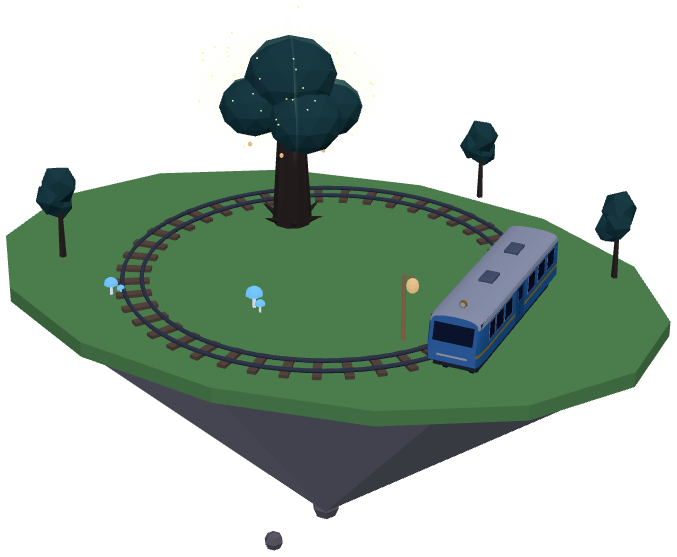
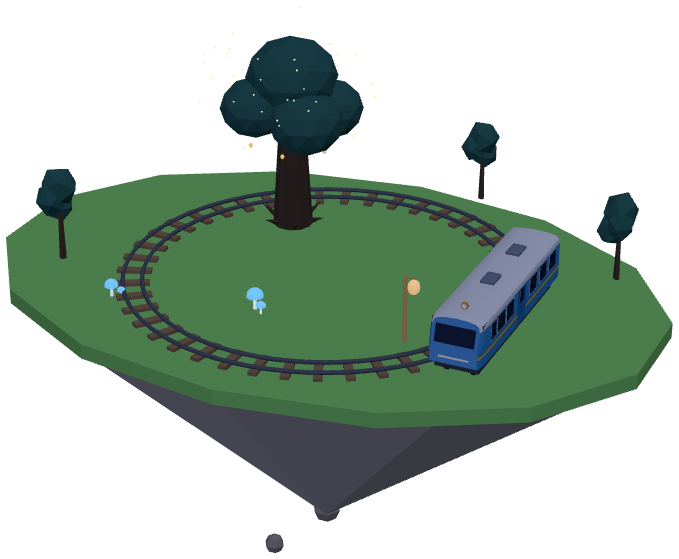
5-1: great tree glow as a camera-facing ball; Sakasa in view in the ending; cleared checked after the map
The halo planes showed edge-on as a thin line above the tree. In the ending Sakasa stood behind the train; it now
stands on the deck past it (a fourth deck to the end of the line). The map picture leaves the additive glow out.

Claude-Session: https://claude.ai/code/session_01DufJAw4fQ6tTfsoi3dumzG

diff --git a/src/view/three/night-placeholders.ts b/src/view/three/night-placeholders.ts
@@ -2,13 +2,11 @@ import {
   AdditiveBlending,
   BoxGeometry,
   BufferGeometry,
-  CanvasTexture,
   CircleGeometry,
   Color,
   ConeGeometry,
   CylinderGeometry,
   Float32BufferAttribute,
-  DoubleSide,
   Group,
   IcosahedronGeometry,
   Mesh,
@@ -437,26 +435,33 @@ function moonMeadow(): Group {
 }
 
 let treeHalo: MeshBasicMaterial | null = null;
-/** The soft firefly light round the great tree's crown: seen from far off, through the fog. */
+/**
+ * The soft firefly light round the great tree's crown, seen from far off through the fog: a ball drawn brightest where
+ * it faces the camera and fading to nothing at its rim (so it has no edge from any side, and works instanced).
+ */
 function haloMaterial(): MeshBasicMaterial {
   if (treeHalo) return treeHalo;
-  let map: CanvasTexture | null = null;
-  if (typeof document !== 'undefined') {
-    const c = document.createElement('canvas');
-    c.width = c.height = 64;
-    const g = c.getContext('2d');
-    if (g) {
-      const grad = g.createRadialGradient(32, 32, 0, 32, 32, 32);
-      grad.addColorStop(0, 'rgba(216,255,122,0.9)');
-      grad.addColorStop(0.5, 'rgba(216,255,122,0.25)');
-      grad.addColorStop(1, 'rgba(216,255,122,0)');
-      g.fillStyle = grad;
-      g.fillRect(0, 0, 64, 64);
-      map = new CanvasTexture(c);
-    }
-  }
-  treeHalo = new MeshBasicMaterial({ color: '#ffffff', map, transparent: true, blending: AdditiveBlending, depthWrite: false, fog: false, side: DoubleSide, opacity: 0.55 });
-  return treeHalo;
+  const m = new MeshBasicMaterial({ color: FIREFLY, transparent: true, blending: AdditiveBlending, depthWrite: false, fog: false });
+  m.onBeforeCompile = (shader) => {
+    shader.vertexShader = shader.vertexShader
+      .replace('#include <common>', '#include <common>\nvarying vec3 vHaloN;\nvarying vec3 vHaloV;')
+      .replace(
+        '#include <project_vertex>',
+        `#include <project_vertex>
+        vec3 haloN = normal;
+        #ifdef USE_INSTANCING
+          haloN = mat3(instanceMatrix) * haloN;
+        #endif
+        vHaloN = normalize(mat3(modelViewMatrix) * haloN);
+        vHaloV = -mvPosition.xyz;`,
+      );
+    shader.fragmentShader = shader.fragmentShader
+      .replace('#include <common>', '#include <common>\nvarying vec3 vHaloN;\nvarying vec3 vHaloV;')
+      .replace('#include <dithering_fragment>', '#include <dithering_fragment>\ngl_FragColor.rgb *= 0.28 * pow(max(0.0, dot(normalize(vHaloN), normalize(vHaloV))), 2.5);');
+  };
+  m.customProgramCacheKey = () => 'great-tree-halo';
+  treeHalo = m;
+  return m;
 }
 
 /**
@@ -495,12 +500,11 @@ function greatTree(): Group {
   const lampMesh = new Mesh(merge(lamps), glowMaterial());
   lampMesh.name = 'great-tree-lanterns';
   g.add(lampMesh);
-  const halo = new Mesh(new PlaneGeometry(70, 50), haloMaterial());
+  const halo = new Mesh(new IcosahedronGeometry(1, 2), haloMaterial());
   halo.name = 'great-tree-halo';
-  halo.position.set(0, 50, 0);
-  const halo2 = halo.clone();
-  halo2.rotation.y = Math.PI / 2;
-  g.add(halo, halo2);
+  halo.scale.set(34, 24, 34);
+  halo.position.set(0, 48, 0);
+  g.add(halo);
   return g;
 }
 

diff --git a/tests/smoke/stage-5-1-full.spec.ts b/tests/smoke/stage-5-1-full.spec.ts
@@ -310,7 +310,6 @@ test('stage 5-1 full run: the light on and off, the hush, the tanukis, the firef
   await expect(page.locator('#reward-records .reward-record')).toHaveCount(3);
 
   const saved = await progress(page);
-  expect(saved.cleared).toContain('5-1');
   expect(saved.records).toEqual(expect.arrayContaining(['moon-bunnies', 'pond-moonstone']));
   expect(saved.records).not.toContain('lantern-bell');
   const b = await budget(page);
@@ -327,6 +326,7 @@ test('stage 5-1 full run: the light on and off, the hush, the tanukis, the firef
   await expect(map).toBeVisible({ timeout: 30_000 });
   await expect(map).toHaveAttribute('data-page', '3', { timeout: 20_000 });
   await expect(page.locator('.map-island[data-island="5-1"]')).toHaveClass(/is-cleared/, { timeout: 20_000 });
+  expect((await progress(page)).cleared).toContain('5-1');
   await page.waitForTimeout(1200);
   await page.screenshot({ path: resolve(OUT, '5-1-16-map-page3.png') });
 

diff --git a/src/viewer/map-render.ts b/src/viewer/map-render.ts
@@ -58,6 +58,10 @@ async function build(diorama: WorldDiorama | null, models: ModelLibrary): Promis
   if (diorama.rail) root.add(railRing(diorama.rail.radius));
   for (const item of diorama.items) {
     const model = (await models.load(item.model)).clone(true);
+    // A glow meant for the night sky (additive) would print as a dark blot on the picture's transparent background.
+    model.traverse((o) => {
+      if (o.name === 'great-tree-halo') o.visible = false;
+    });
     const scale = item.scale ?? 1;
     const rot = MathUtils.degToRad(item.rotY ?? 0);
     model.scale.setScalar(scale);

diff --git a/docs/PHASE9_CHAPTER5_6.md b/docs/PHASE9_CHAPTER5_6.md
@@ -3466,8 +3466,8 @@ main 2600・右 10・上 9 → はなれ 13.45 m → 光る 所 2520–2586.6、
 - 月は 方位 350°・高さ 18°（表の 20°・32° だと 北へ 向かう 所と 入りの カメラで 画面の 外）。
 - こじかは 線路を よこぎる 向き（`rotationY` −90、0-1 と 同じ）。
 - 寸劇 `lantern` は 運転席の 上の 動かない カメラから（chase では 小さくて 見えなかった）。サカサは main 2025・左 11 m → 2060・左 27 m（表の 2040・16 → 2090・30 より 近く）。
-- 寸劇 `ending` の ほたるの むれは main 3210・左 6 m・高さ +22 から サカサ（3190・左 14）へ。サカサは ちょうちんの きえた `amanojaku-lantern-off`。カメラは 表の 点を 本線の おわりの ずれ（坂で 約 3.8 m）だけ うごかした。おおきな きも 車止めの 50 m 先に 置いた。
-- `great-tree` は てっぺんの ほたるの 光の 板を もつ（`fog: false`、加算）。`amanojaku-lantern(-off)` は 作った `amanojaku` に 棒と ちょうちんを つけて コードで 組む（`models.ts`）。
+- 寸劇 `ending` の ほたるの むれは main 3210・高さ +22（きの 前）から サカサへ。サカサは 電車の 先の デッキ（3204・左 9。表の 3190・左 14 は 電車の かげで 見えなかった）で こちらを 向き、3208・左 26 で ふりかえり、デッキの 向こうへ おりて いく。ちょうちんの きえた `amanojaku-lantern-off`。デッキは 3070–3229 に 4 まい。カメラは 表の 点を 本線の おわりの ずれ（坂で 約 3.8 m）だけ うごかした。おおきな きも 車止めの 50 m 先に 置いた。
+- `great-tree` は てっぺんの まわりに ほたるの ぼんやりした 光の 玉を もつ（`fog: false`、加算、カメラに 向いた 所ほど 明るく ふちは 消える。板だと 横から 線に 見えた）。`amanojaku-lantern(-off)` は 作った `amanojaku` に 棒と ちょうちんを つけて コードで 組む（`models.ts`）。
 - 地図の 島の 絵は `diorama.lighting: "night"`（青い 月あかり 70%）。
 - 夜の ライトの すじは、カメラの 目より 高い ところを 描かない（運転席から ランプの 近くが 空に 三角に 見えた ため。§4.1）。
 
